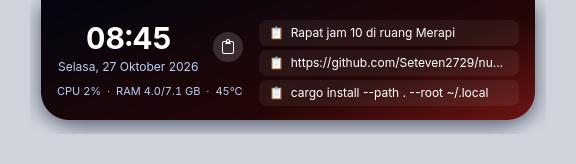
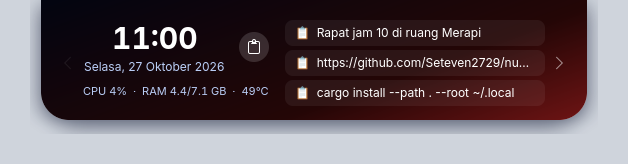
Animate notch width, refresh screenshots, add AUR PKGBUILD
The closed notch now sizes to its own content. A collapsed GtkRevealer
  kept reserving the open content's width, so the closed notch was as
wide
  as the open one (235px for just a clock in idle; now 150px). Opening
  widens the notch first (CSS min-width transition), then slides the
  content down; closing slides it up, then narrows. The top row
collapses
  with its own revealer so the height never dips mid-animation. Verified
  with a per-frame size trace: at most 18px of width change per frame.

  README: screenshots retaken with the page arrows and narrower closed
  notch, plus a new one of the Downloads page.

  packaging/aur: PKGBUILD and .SRCINFO for nusa-linux-bin, which
installs
  the release tarball with its runtime and optional dependencies. README
  documents installing it with makepkg and updating it after a release.

diff --git a/src/main.rs b/src/main.rs
@@ -56,6 +56,14 @@ struct Ui {
     head: gtk::Box,
     dl_active: gtk::Box,
     dl_recent: gtk::Box,
+    pager: gtk::Box,
+    top_row: gtk::Revealer,
+    /// Holds the notch's min-width while opening/closing; empty means the stylesheet default.
+    width_css: gtk::CssProvider,
+    /// Hover wants the notch open (true even during the widen-first phase).
+    want_open: Rc<std::cell::Cell<bool>>,
+    /// Bumped on every open/close so a stale delayed step can tell it was superseded.
+    anim: Rc<std::cell::Cell<u32>>,
 }
 
 /// What the idle mascot is doing; `None` means it is hidden and the clock shows.
@@ -346,7 +354,15 @@ fn build_ui(app: &gtk::Application) {
 
     let notch = gtk::Box::new(gtk::Orientation::Vertical, 2);
     notch.add_css_class("notch");
-    notch.append(&top);
+    // The top row collapses with its own slide, so while the open content slides in the
+    // notch's height never dips (hiding the row instantly flashed a 2px-tall notch).
+    let top_row = gtk::Revealer::builder()
+        .transition_type(gtk::RevealerTransitionType::SlideDown)
+        .transition_duration(200)
+        .reveal_child(true)
+        .child(&top)
+        .build();
+    notch.append(&top_row);
     // Thin download bar under the top row; stays even with music or in minimal mode.
     let dl_bar = gtk::ProgressBar::builder().css_classes(["dl"]).visible(false).build();
     notch.append(&dl_bar);
@@ -392,6 +408,11 @@ fn build_ui(app: &gtk::Application) {
         head,
         dl_active,
         dl_recent,
+        pager,
+        top_row,
+        width_css: gtk::CssProvider::new(),
+        want_open: Default::default(),
+        anim: Default::default(),
     };
     // Cover-tinted gradient lives in its own provider so it can be swapped per track.
     gtk::style_context_add_provider_for_display(
@@ -404,6 +425,22 @@ fn build_ui(app: &gtk::Application) {
         &ui.wall,
         gtk::STYLE_PROVIDER_PRIORITY_APPLICATION + 1,
     );
+    gtk::style_context_add_provider_for_display(
+        &gtk::gdk::Display::default().unwrap(),
+        &ui.width_css,
+        gtk::STYLE_PROVIDER_PRIORITY_APPLICATION + 2,
+    );
+    // A collapsed GtkRevealer still reserves its child's width, which kept the closed notch
+    // as wide as the open one. Hide the content entirely while closed.
+    ui.pager.set_visible(false);
+    // Closing, second step: once the content has slid up, hide it and let the notch narrow back.
+    let u = ui.clone();
+    ui.expanded.connect_child_revealed_notify(move |r| {
+        if !r.is_child_revealed() && !u.want_open.get() {
+            u.pager.set_visible(false);
+            u.width_css.load_from_string("");
+        }
+    });
     let state: Shared = Rc::new(RefCell::new(State {
         minimal: cfg().minimal,
         mascot_off: !cfg().mascot,
@@ -534,20 +571,21 @@ fn build_ui(app: &gtk::Application) {
     let (u1, s1, g1) = (ui.clone(), state.clone(), hover_gen.clone());
     hover.connect_enter(move |_, _, _| {
         g1.set(g1.get() + 1);
-        if !u1.expanded.reveals_child() {
+        if !u1.want_open.get() {
             // Open on the page that matters right now, without a sideways slide.
-            let st = s1.borrow();
-            let page = if st.player.is_some() && !st.track.is_empty() {
-                "media"
-            } else if !st.downloads.is_empty() && cfg().downloads {
-                "downloads"
-            } else {
-                "home"
+            let page = {
+                let st = s1.borrow();
+                if st.player.is_some() && !st.track.is_empty() {
+                    "media"
+                } else if !st.downloads.is_empty() && cfg().downloads {
+                    "downloads"
+                } else {
+                    "home"
+                }
             };
             u1.pages.set_visible_child_full(page, gtk::StackTransitionType::None);
-            u1.expanded.set_reveal_child(true);
+            set_open(&u1, &s1, true);
         }
-        refresh_compact(&u1, &s1.borrow());
     });
     let (u2, s2) = (ui.clone(), state.clone());
     hover.connect_leave(move |_| {
@@ -556,9 +594,7 @@ fn build_ui(app: &gtk::Application) {
         let (u, s, g) = (u2.clone(), s2.clone(), hover_gen.clone());
         glib::timeout_add_local_once(Duration::from_millis(250), move || {
             if g.get() == seq {
-                u.expanded.set_reveal_child(false);
-                u.clip_btn.set_active(false);
-                refresh_compact(&u, &s.borrow());
+                set_open(&u, &s, false);
             }
         });
     });
@@ -758,18 +794,21 @@ fn refresh_compact(ui: &Ui, st: &State) {
     }
     // When open, the expanded view shows either the track or a big clock, so the top row would only repeat it.
     let show_compact = st.alert.is_some() || (!open && !st.minimal);
-    ui.mic.set_visible(!st.mic_apps.is_empty() && show_compact);
-    ui.cam.set_visible((!st.cam_apps.is_empty() || st.cam_pw) && show_compact);
-    ui.share.set_visible(st.sharing && show_compact);
+    ui.top_row.set_reveal_child(show_compact);
+    // Items inside the row keep their visibility while it slides away, so the slide has
+    // something to animate; the row's revealer alone decides whether it shows.
+    ui.mic.set_visible(!st.mic_apps.is_empty());
+    ui.cam.set_visible(!st.cam_apps.is_empty() || st.cam_pw);
+    ui.share.set_visible(st.sharing);
     // The mascot stands in for the clock (or the song title) once you have been away a while.
-    let mascot = st.mood != Mood::None && show_compact && st.alert.is_none() && st.download.is_none();
+    let mascot = st.mood != Mood::None && st.alert.is_none() && st.download.is_none();
     ui.dl_bar.set_visible(!open && st.download.is_some());
     if let Some((_, p)) = &st.download {
         ui.dl_bar.set_fraction(*p);
     }
     ui.mascot.set_visible(mascot);
-    ui.compact.set_visible(show_compact && !mascot);
-    let media = show_compact && st.playing && st.alert.is_none();
+    ui.compact.set_visible(!mascot);
+    let media = st.playing && st.alert.is_none();
     ui.eq.set_visible(media);
     ui.mini_art.set_visible(media && !mascot && ui.mini_art.paintable().is_some());
     if ui.expanded.reveals_child() {
@@ -793,6 +832,44 @@ fn refresh_compact(ui: &Ui, st: &State) {
     let now = glib::DateTime::now_local().ok();
     ui.clock.set_label(&now.as_ref().and_then(|d| d.format("%H:%M").ok()).unwrap_or_default());
     ui.date.set_label(&now.as_ref().map(tanggal).unwrap_or_default());
+}
+
+/// Open or close the notch without the width ever jumping.
+/// Opening widens the closed notch to the open content's width first (a CSS min-width
+/// transition), then slides the content down. Closing slides it up first; the
+/// child-revealed handler then lets the notch narrow back.
+fn set_open(ui: &Ui, state: &Shared, open: bool) {
+    if ui.want_open.get() == open {
+        return;
+    }
+    ui.want_open.set(open);
+    let seq = ui.anim.get() + 1;
+    ui.anim.set(seq);
+    if open {
+        refresh_compact(ui, &state.borrow()); // so the measurement sees the right page contents
+        // Measure the open content without showing it (visible on and off within this frame).
+        ui.pager.set_visible(true);
+        let (_, natural, _, _) = ui.pager.measure(gtk::Orientation::Horizontal, -1);
+        ui.pager.set_visible(false);
+        ui.width_css.load_from_string(&format!(".notch {{ min-width: {natural}px; }}"));
+        let (u, s) = (ui.clone(), state.clone());
+        glib::timeout_add_local_once(Duration::from_millis(170), move || {
+            if u.anim.get() == seq {
+                u.pager.set_visible(true);
+                u.expanded.set_reveal_child(true);
+                refresh_compact(&u, &s.borrow());
+            }
+        });
+    } else {
+        ui.expanded.set_reveal_child(false);
+        ui.clip_btn.set_active(false);
+        if !ui.expanded.is_child_revealed() {
+            // Closed during the widen phase: nothing to slide up, narrow right away.
+            ui.pager.set_visible(false);
+            ui.width_css.load_from_string("");
+        }
+        refresh_compact(ui, &state.borrow());
+    }
 }
 
 /// Pages left to right, as the arrows walk them.

diff --git a/src/style.rs b/src/style.rs
@@ -7,7 +7,7 @@ window { background: transparent; }
   font-family: Inter, 'Noto Sans', sans-serif;
   border-radius: 0 0 20px 20px; padding: 5px 14px 7px; min-width: 150px;
   margin: 0 14px 14px; box-shadow: 0 6px 20px rgba(4,12,40,0.6);
-  transition: border-radius 180ms ease, padding 180ms ease;
+  transition: border-radius 180ms ease, padding 180ms ease, min-width 180ms ease-out;
 }
 .notch.open { border-radius: 0 0 28px 28px; padding: 8px 16px 14px; }
 .notch.thin { padding: 0; min-height: 5px; box-shadow: none; }

diff --git a/README.md b/README.md
@@ -14,7 +14,7 @@ Hover notch untuk membukanya, geser kursor menjauh untuk menutupnya. Notch yang 
 
 <table>
   <tr>
-    <td align="center"><img src="docs/screenshots/closed-music.png" width="320" alt="Notch tertutup saat musik diputar"><br>Tertutup saat musik diputar: lirik dan romanisasinya</td>
+    <td align="center"><img src="docs/screenshots/closed-music.png" width="297" alt="Notch tertutup saat musik diputar"><br>Tertutup saat musik diputar: lirik dan romanisasinya</td>
     <td align="center"><img src="docs/screenshots/idle.png" width="260" alt="Tampilan idle dengan jam, tanggal, dan statistik"><br>Idle: jam, tanggal, CPU/RAM/suhu</td>
   </tr>
   <tr>
@@ -27,6 +27,9 @@ Hover notch untuk membukanya, geser kursor menjauh untuk menutupnya. Notch yang 
   <tr>
     <td align="center"><img src="docs/screenshots/alert.png" width="300" alt="Popup notifikasi HP"><br>Notifikasi HP lewat KDE Connect</td>
     <td align="center"><img src="docs/screenshots/download.png" width="240" alt="Progres download dan titik mikrofon"><br>Progres download, titik oranye = mikrofon dipakai</td>
+  </tr>
+  <tr>
+    <td align="center" colspan="2"><img src="docs/screenshots/downloads-page.png" width="420" alt="Halaman Download"><br>Halaman Download: semua download yang berjalan dan file terbaru</td>
   </tr>
 </table>
 
@@ -94,7 +97,17 @@ nusa-linux &
 
 `apt` ikut memasang GTK4 dan gtk4-layer-shell. Ubuntu 24.04 belum bisa, karena repo-nya tidak punya gtk4-layer-shell.
 
-**Arch Linux**
+**Arch Linux, lewat PKGBUILD** (dikelola pacman, bersih saat uninstall)
+
+```sh
+git clone https://github.com/Seteven2729/nusa-linux.git
+cd nusa-linux/packaging/aur
+makepkg -si
+```
+
+`makepkg` mengunduh binary dari release, memeriksa checksum-nya, lalu memasang paket `nusa-linux-bin`. Hapus dengan `sudo pacman -R nusa-linux-bin`.
+
+**Arch Linux, manual**
 
 ```sh
 sudo pacman -S --needed gtk4 gtk4-layer-shell
@@ -217,6 +230,7 @@ Bacaan kanji diambil dari kamus tanpa melihat konteks kalimat, jadi kadang meles
 1. Naikkan `version` di `Cargo.toml`, commit.
 2. Buat tag yang sama dan push: `git tag v0.2.0 && git push repo v0.2.0`.
 3. GitHub Actions membangun `.deb`, `.tar.gz`, dan `SHA256SUMS` lalu memasangnya di halaman Releases. Tag yang tidak cocok dengan `Cargo.toml` ditolak.
+4. Setelah release jadi, update PKGBUILD: ubah `pkgver` di `packaging/aur/PKGBUILD`, lalu di folder itu jalankan `updpkgsums && makepkg --printsrcinfo > .SRCINFO`, dan commit.
 
 ## Test
 
